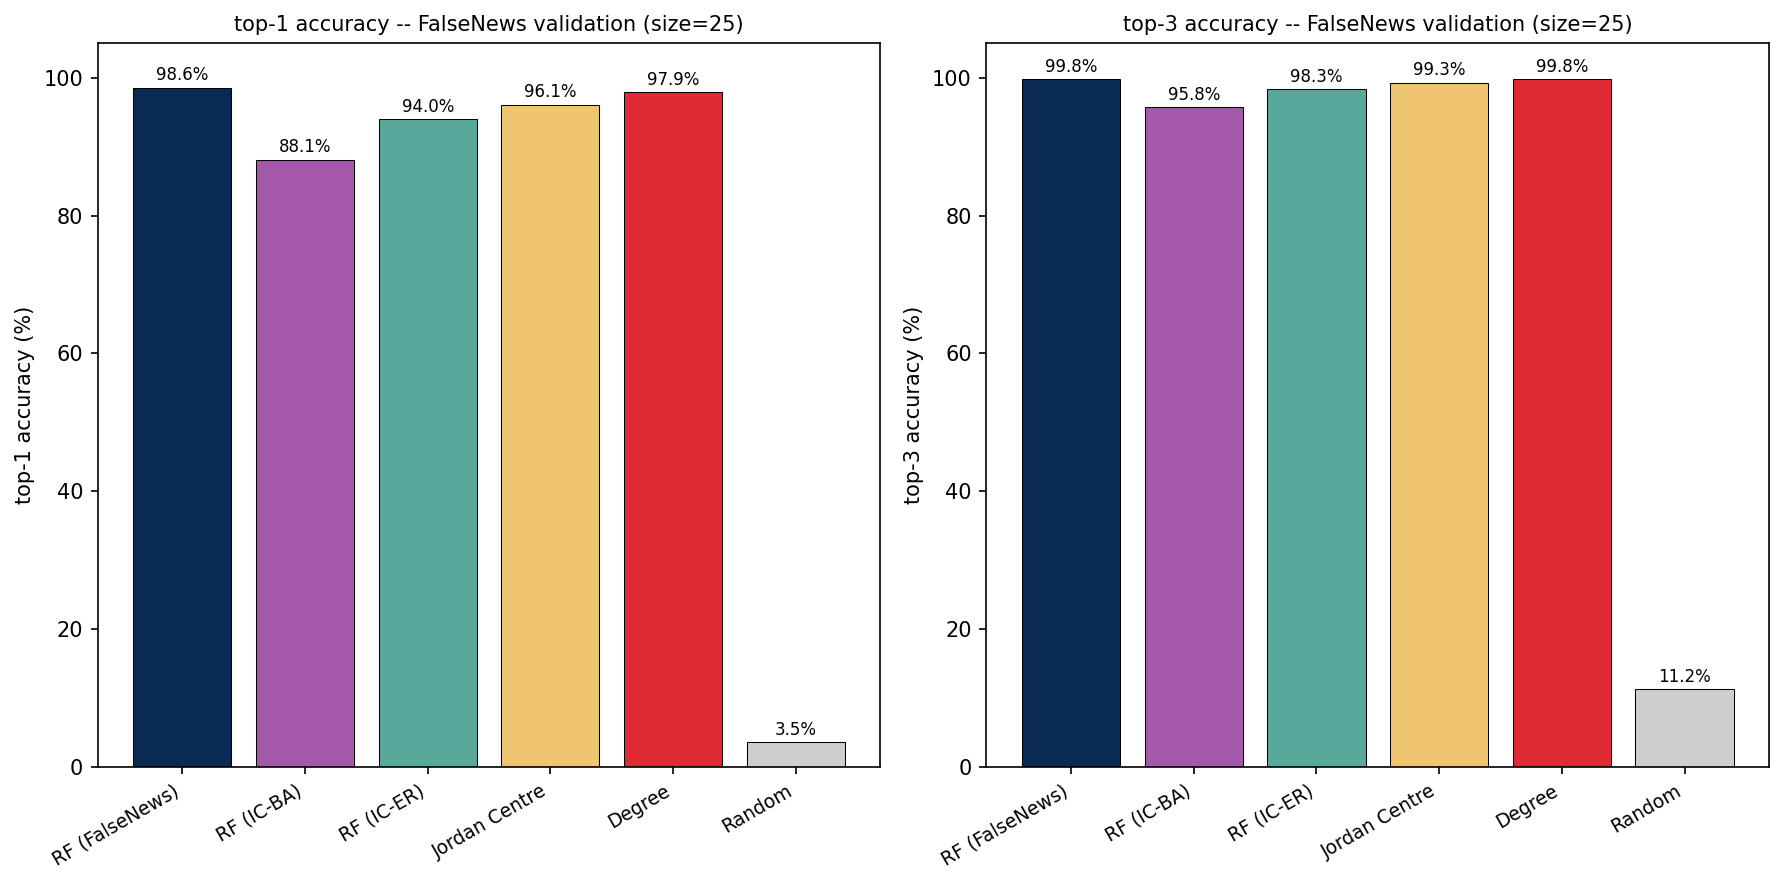
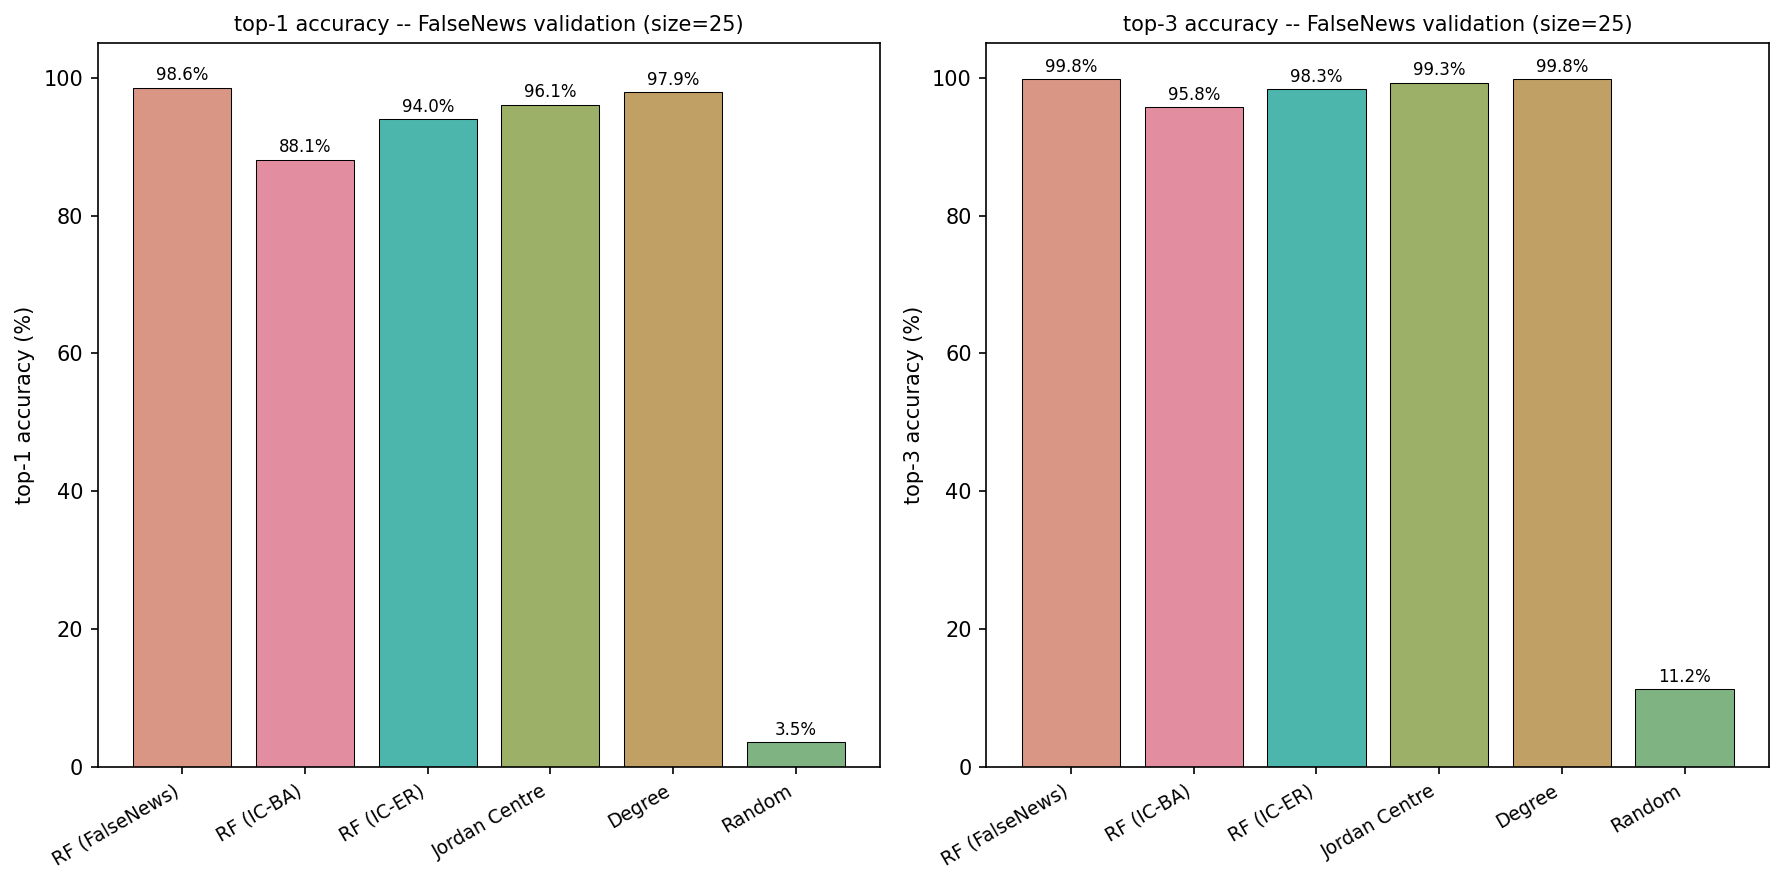
style(validation): apply disease colour palette and split outbreaks/weibo into compute+plot scripts

diff --git a/validation/truefalsevalidation/scripts/plot_r0_analysis.py b/validation/truefalsevalidation/scripts/plot_r0_analysis.py
@@ -21,7 +21,10 @@ _REPO_ROOT = Path(__file__).resolve().parent.parent.parent.parent
 DATA_DIR   = _REPO_ROOT / "validation/truefalsevalidation/data"
 OUT_DIR    = _REPO_ROOT / "validation/truefalsevalidation/figures"
 
-COLORS = ["#082a54", "#a559aa", "#59a89c", "#f0c571", "#e02b35", "#cecece"]
+COLORS = [
+    "#D99685", "#E38EA0", "#4DB6AC", "#9CB067", "#C0A064",
+    "#7FB382", "#A3A1D8", "#DA92B7", "#C594D1", "#56B4BE",
+]
 
 R0_BINS = [(0.0, 0.75), (0.75, 1.5), (1.5, 2.5), (2.5, 4.0), (4.0, float("inf"))]
 

diff --git a/validation/truefalsevalidation/scripts/plot_edge_distribution.py b/validation/truefalsevalidation/scripts/plot_edge_distribution.py
@@ -74,10 +74,10 @@ def plot(stats: pd.DataFrame, out_dir: Path) -> None:
 
     # different gray shades to distinguish veracity groups in b&w
     plot_order = [
-        ("ALL",   "#cecece"),
-        ("TRUE",  "#59a89c"),
-        ("FALSE", "#e02b35"),
-        ("MIXED", "#f0c571"),
+        ("ALL",   "#A3A1D8"),
+        ("TRUE",  "#4DB6AC"),
+        ("FALSE", "#D99685"),
+        ("MIXED", "#C0A064"),
     ]
 
     for ax, (label, color) in zip(axes.flat, plot_order):

diff --git a/validation/truefalsevalidation/scripts/plot_falsenews_comparison.py b/validation/truefalsevalidation/scripts/plot_falsenews_comparison.py
@@ -21,7 +21,10 @@ _REPO_ROOT = Path(__file__).resolve().parent.parent.parent.parent
 DATA_DIR   = _REPO_ROOT / "validation/truefalsevalidation/data"
 OUT_DIR    = _REPO_ROOT / "validation/truefalsevalidation/figures"
 
-COLORS = ["#082a54", "#a559aa", "#59a89c", "#f0c571", "#e02b35", "#cecece"]
+COLORS = [
+    "#D99685", "#E38EA0", "#4DB6AC", "#9CB067", "#C0A064",
+    "#7FB382", "#A3A1D8", "#DA92B7", "#C594D1", "#56B4BE",
+]
 
 
 def _plot_comparison(data: dict) -> None:

diff --git a/validation/outbreaksvalidation/scripts/plot_outbreak_trees_validation.py b/validation/outbreaksvalidation/scripts/plot_outbreak_trees_validation.py
@@ -20,7 +20,10 @@ _REPO_ROOT = Path(__file__).resolve().parent.parent.parent.parent
 DATA_DIR   = _REPO_ROOT / "validation/outbreaksvalidation/data"
 OUT_DIR    = _REPO_ROOT / "validation/outbreaksvalidation/figures"
 
-COLORS = ["#082a54", "#a559aa", "#59a89c", "#f0c571", "#e02b35", "#cecece"]
+COLORS = [
+    "#D99685", "#E38EA0", "#4DB6AC", "#9CB067", "#C0A064",
+    "#7FB382", "#A3A1D8", "#DA92B7", "#C594D1", "#56B4BE",
+]
 
 
 def main() -> None:

diff --git a/validation/truefalsevalidation/scripts/plot_existing_models.py b/validation/truefalsevalidation/scripts/plot_existing_models.py
@@ -20,7 +20,10 @@ _REPO_ROOT = Path(__file__).resolve().parent.parent.parent.parent
 DATA_DIR   = _REPO_ROOT / "validation/truefalsevalidation/data"
 OUT_DIR    = _REPO_ROOT / "validation/truefalsevalidation/figures"
 
-COLORS = ["#082a54", "#a559aa", "#59a89c", "#f0c571", "#e02b35", "#cecece"]
+COLORS = [
+    "#D99685", "#E38EA0", "#4DB6AC", "#9CB067", "#C0A064",
+    "#7FB382", "#A3A1D8", "#DA92B7", "#C594D1", "#56B4BE",
+]
 
 
 def main() -> None:

diff --git a/validation/weibovalidation/scripts/plot_weibo_validation.py b/validation/weibovalidation/scripts/plot_weibo_validation.py
@@ -20,7 +20,10 @@ _REPO_ROOT = Path(__file__).resolve().parent.parent.parent.parent
 DATA_DIR   = _REPO_ROOT / "validation/weibovalidation/data"
 OUT_DIR    = _REPO_ROOT / "validation/weibovalidation/figures"
 
-COLORS = ["#082a54", "#a559aa", "#59a89c", "#f0c571", "#e02b35", "#cecece"]
+COLORS = [
+    "#D99685", "#E38EA0", "#4DB6AC", "#9CB067", "#C0A064",
+    "#7FB382", "#A3A1D8", "#DA92B7", "#C594D1", "#56B4BE",
+]
 
 
 def main() -> None:
